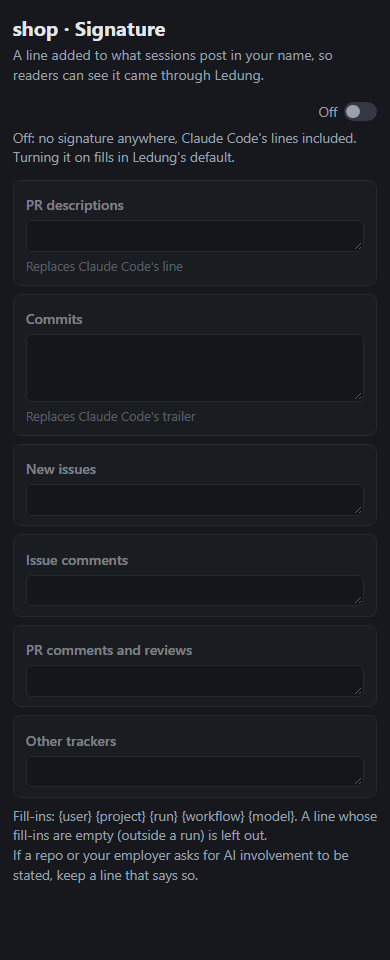
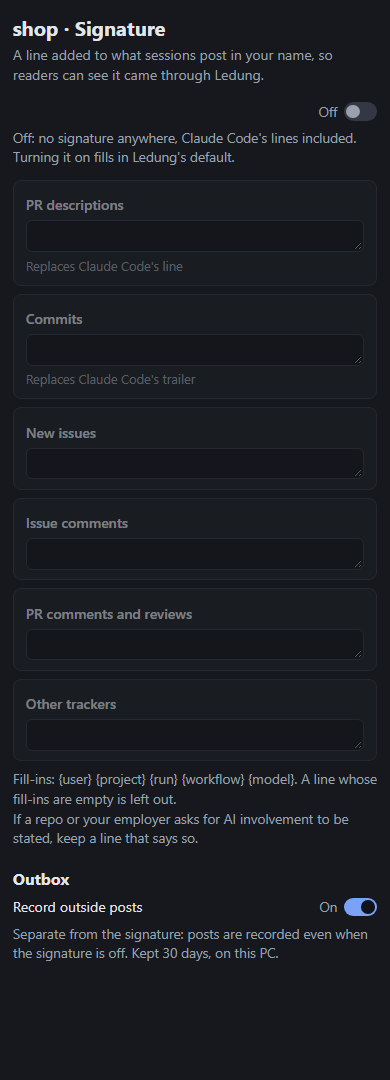
Design #513: the Outbox records every outside post, stand-in always on PATH, Ledung-Run dropped
The manager's Outbox changes, which Simon liked: its own per-project
setting, on by default, separate from the signature; the stand-in records
issue/PR create, comment, review and edit and writing gh api calls, and
passes them through when no text applies; tracker writes recorded
through PostToolUse; Ledung's board posts included; one line on what it
can't see; local, 30 days; the fallback spelled out. Simon on
Ledung-Run: "Drop it." Open choice 6 notes the manager's preference.
Parts and estimate updated (+30 min); mock-ups and screenshots redone.

Changelog: none

diff --git a/docs/steps/project-signature/outbox-mock.html b/docs/steps/project-signature/outbox-mock.html
@@ -29,24 +29,33 @@ a { color:var(--accent); text-decoration:none; }
   .card .l1 a { overflow:hidden; text-overflow:ellipsis; white-space:nowrap; min-width:0; }
   .card .l2 { color:var(--muted); font-size:.85rem; margin-top:.15rem; }
 }
+.cant { color:var(--muted); font-size:.85rem; margin:-.6rem 0 .9rem; }
+code { font:12px ui-monospace, Consolas, monospace; }
 </style></head><body><div class="wrap">
 <h1>Outbox</h1>
-<p class="sub">What sessions posted outside Ledung, newest first. Kept for 30 days.</p>
+<p class="sub">Everything sessions posted outside Ledung, signed or not, newest first. Kept 30 days, on this PC.</p>
+<p class="cant">Not recorded: <code>gh</code> from PowerShell or cmd, sessions in containers (for now), and posts made with curl or your own scripts.</p>
 <div class="filters"><span class="chip on">All projects</span><span class="chip">shop</span><span class="chip">docs-site</span><span class="chip on">All runs</span><span class="chip">run-42</span><span class="chip">Not in a run</span></div>
 <table>
-<thead><tr><th>When</th><th>What</th><th>Post</th><th>Project</th><th>Run</th><th>Session</th></tr></thead>
+<thead><tr><th>When</th><th>What</th><th>Post</th><th>Signed</th><th>Project</th><th>Run</th><th>Session</th></tr></thead>
 <tbody>
-<tr><td>16:41</td><td><span class="kind">PR review</span></td><td><a href="#">example/shop PR #88 · review comment</a></td><td>shop</td><td><a href="#">run-42</a></td><td><a href="#">Review</a></td></tr>
-<tr><td>16:12</td><td><span class="kind">PR</span></td><td><a href="#">example/shop PR #88 · Cart shows VAT per rate</a></td><td>shop</td><td><a href="#">run-42</a></td><td><a href="#">Build</a></td></tr>
-<tr><td>15:30</td><td><span class="kind">Linear comment</span></td><td><a href="#">SHOP-214 · comment</a></td><td>shop</td><td><a href="#">run-42</a></td><td><a href="#">Design</a></td></tr>
-<tr><td>14:05</td><td><span class="kind">Issue</span></td><td><a href="#">example/docs-site #17 · Broken link on the install page</a></td><td>docs-site</td><td class="muted">—</td><td><a href="#">Docs check</a></td></tr>
-<tr><td>Yesterday</td><td><span class="kind">Issue comment</span></td><td><a href="#">example/shop #80 · comment</a></td><td>shop</td><td class="muted">—</td><td><a href="#">Triage</a></td></tr>
+<tr><td>16:58</td><td><span class="kind">Board post</span></td><td><a href="#">Board · run-42 · "Review done, 2 findings"</a></td><td><span class="muted">—</span></td><td>shop</td><td><a href="#">run-42</a></td><td><a href="#">Review</a></td></tr>
+<tr><td>16:41</td><td><span class="kind">PR review</span></td><td><a href="#">example/shop PR #88 · review comment</a></td><td><span class="ok">signed</span></td><td>shop</td><td><a href="#">run-42</a></td><td><a href="#">Review</a></td></tr>
+<tr><td>16:20</td><td><span class="kind">PR edit</span></td><td><a href="#">example/shop PR #88 · description edited</a></td><td><span class="muted">—</span></td><td>shop</td><td><a href="#">run-42</a></td><td><a href="#">Build</a></td></tr>
+<tr><td>16:12</td><td><span class="kind">PR</span></td><td><a href="#">example/shop PR #88 · Cart shows VAT per rate</a></td><td><span class="ok">signed</span></td><td>shop</td><td><a href="#">run-42</a></td><td><a href="#">Build</a></td></tr>
+<tr><td>15:30</td><td><span class="kind">Linear comment</span></td><td><a href="#">SHOP-214 · comment</a></td><td><span class="muted">—</span></td><td>shop</td><td><a href="#">run-42</a></td><td><a href="#">Design</a></td></tr>
+<tr><td>14:05</td><td><span class="kind">Issue</span></td><td><a href="#">example/docs-site #17 · Broken link on the install page</a></td><td><span class="muted">—</span></td><td>docs-site</td><td><span class="muted">—</span></td><td><a href="#">Docs check</a></td></tr>
+<tr><td>13:40</td><td><span class="kind">API write</span></td><td><a href="#">POST repos/example/docs-site/labels</a></td><td><span class="muted">—</span></td><td>docs-site</td><td><span class="muted">—</span></td><td><a href="#">Docs check</a></td></tr>
+<tr><td>Yesterday</td><td><span class="kind">Issue comment</span></td><td><a href="#">example/shop #80 · comment</a></td><td><span class="muted">—</span></td><td>shop</td><td><span class="muted">—</span></td><td><a href="#">Triage</a></td></tr>
 </tbody></table>
 <div class="cards">
-<div class="card"><div class="l1"><span class="kind">PR review</span><a href="#">example/shop PR #88 · review comment</a></div><div class="l2">shop · <a href="#">run-42</a> · 16:41 · Review</div></div>
-<div class="card"><div class="l1"><span class="kind">PR</span><a href="#">example/shop PR #88 · Cart shows VAT per rate</a></div><div class="l2">shop · <a href="#">run-42</a> · 16:12 · Build</div></div>
+<div class="card"><div class="l1"><span class="kind">Board post</span><a href="#">Board · run-42 · "Review done, 2 findings"</a></div><div class="l2">shop · <a href="#">run-42</a> · 16:58 · Review</div></div>
+<div class="card"><div class="l1"><span class="kind">PR review</span><a href="#">example/shop PR #88 · review comment</a></div><div class="l2">shop · <a href="#">run-42</a> · 16:41 · Review · <span class="ok">signed</span></div></div>
+<div class="card"><div class="l1"><span class="kind">PR edit</span><a href="#">example/shop PR #88 · description edited</a></div><div class="l2">shop · <a href="#">run-42</a> · 16:20 · Build</div></div>
+<div class="card"><div class="l1"><span class="kind">PR</span><a href="#">example/shop PR #88 · Cart shows VAT per rate</a></div><div class="l2">shop · <a href="#">run-42</a> · 16:12 · Build · <span class="ok">signed</span></div></div>
 <div class="card"><div class="l1"><span class="kind">Linear comment</span><a href="#">SHOP-214 · comment</a></div><div class="l2">shop · <a href="#">run-42</a> · 15:30 · Design</div></div>
 <div class="card"><div class="l1"><span class="kind">Issue</span><a href="#">example/docs-site #17 · Broken link on the install page</a></div><div class="l2">docs-site · not in a run · 14:05 · Docs check</div></div>
+<div class="card"><div class="l1"><span class="kind">API write</span><a href="#">POST repos/example/docs-site/labels</a></div><div class="l2">docs-site · not in a run · 13:40 · Docs check</div></div>
 <div class="card"><div class="l1"><span class="kind">Issue comment</span><a href="#">example/shop #80 · comment</a></div><div class="l2">shop · not in a run · yesterday · Triage</div></div>
 </div>
 </div></body></html>

diff --git a/docs/steps/project-signature/settings-mock.html b/docs/steps/project-signature/settings-mock.html
@@ -33,8 +33,8 @@ tr:last-child td { border-bottom:0; }
 .switch { margin-left:auto; display:flex; align-items:center; gap:.4rem; color:var(--muted); font-size:.85rem; }
 .track { width:2.1rem; height:1.15rem; border-radius:999px; background:var(--accent); position:relative; display:inline-block; }
 .track::after { content:""; position:absolute; top:.15rem; left:1.1rem; width:.85rem; height:.85rem; border-radius:50%; background:var(--accent-text); }
-body.off .track { background:var(--border); }
-body.off .track::after { left:.15rem; background:var(--muted); }
+body.off .track:not(.keep) { background:var(--border); }
+body.off .track:not(.keep)::after { left:.15rem; background:var(--muted); }
 .offnote { display:none; }
 body.off .offnote { display:block; }
 body.off .state, body.off .restore, body.off .onlyon { display:none; }
@@ -55,13 +55,12 @@ body.off .place { opacity:.5; }
 <p class="hint offnote">Off: no signature anywhere, Claude Code's lines included. Turning it on fills in Ledung's default.</p>
 
 <div class="place"><label>PR descriptions</label><textarea rows="1">— via Ledung for {user}</textarea><span class="why">Replaces Claude Code's line</span></div>
-<div class="place"><label>Commits</label><textarea rows="3">Co-Authored-By: {model} &lt;noreply@anthropic.com&gt;
-Ledung-Run: {run}</textarea><span class="why">Replaces Claude Code's trailer</span></div>
+<div class="place"><label>Commits</label><textarea rows="1">Co-Authored-By: {model} &lt;noreply@anthropic.com&gt;</textarea><span class="why">Replaces Claude Code's trailer</span></div>
 <div class="place"><label>New issues</label><textarea rows="1">— via Ledung for {user}</textarea></div>
 <div class="place"><label>Issue comments</label><textarea rows="1" placeholder="Empty: nothing added"></textarea></div>
 <div class="place"><label>PR comments and reviews</label><textarea rows="1" placeholder="Empty: nothing added"></textarea></div>
 <div class="place"><label>Other trackers</label><textarea rows="1">— via Ledung</textarea></div>
-<p class="hint">Fill-ins: {user} {project} {run} {workflow} {model}. A line whose fill-ins are empty (outside a run) is left out.<br>If a repo or your employer asks for AI involvement to be stated, keep a line that says so.</p>
+<p class="hint">Fill-ins: {user} {project} {run} {workflow} {model}. A line whose fill-ins are empty is left out.<br>If a repo or your employer asks for AI involvement to be stated, keep a line that says so.</p>
 
 <div class="onlyon"><h2>Preview, in run-42</h2>
 <div class="preview">PR description:
@@ -69,8 +68,7 @@ Ledung-Run: {run}</textarea><span class="why">Replaces Claude Code's trailer</sp
 — via Ledung for Simon</b>
 
 Commit:
-<b>Co-Authored-By: Claude Opus 5.5 &lt;noreply@anthropic.com&gt;
-Ledung-Run: run-42</b></div>
+<b>Co-Authored-By: Claude Opus 5.5 &lt;noreply@anthropic.com&gt;</b></div>
 
 <h2>Tracker tools</h2>
 <table><thead><tr><th>Tool</th><th>Field signed</th></tr></thead><tbody>
@@ -79,6 +77,9 @@ Ledung-Run: run-42</b></div>
 </tbody></table>
 <p class="hint">Asked once per tool. With Other trackers empty, nothing is asked or signed.</p>
 </div>
+<h2>Outbox</h2>
+<div class="top keep"><span>Record outside posts</span><span class="switch"><span>On</span><span class="track keep"></span></span></div>
+<p class="hint">Separate from the signature: posts are recorded even when the signature is off. Kept 30 days, on this PC.</p>
 </div>
 <script>
 // ?off shows the section switched off: every box emptied, as Simon asked.

diff --git a/docs/steps/project-signature.md b/docs/steps/project-signature.md
@@ -1,8 +1,8 @@
 # A project signature — proposal
 
-Nov 26, 2026, revised Nov 27 (Ledung's line replaces Claude Code's; then Simon's changes: a text per place, off is off, no PR summary; then one preset, Ledung's, editable, with Restore default and a small Off) · Proposal for issue #513 (run-179). Not approved yet; nothing is built.
+Nov 26, 2026, revised Nov 27 (Ledung's line replaces Claude Code's; then Simon's changes: a text per place, off is off, no PR summary; then one preset, Ledung's, editable, with Restore default and a small Off; an Outbox that records everything; no `Ledung-Run`) · Proposal for issue #513 (run-179). Not approved yet; nothing is built.
 
-**Done when:** the "Done looks like" points of #513 hold, minus the living PR summary: a signature per project, Ledung's default or edited by hand, with a text per place and an Off; `gh` issue create, issue and PR comments and reviews get it from every body source on Windows and Mac, and PR descriptions and commits through Claude Code's own settings; every other `gh` call is unchanged; another server's write tool gets it after one question per tool and project; an Outbox lists what went out; and never a second signature, one on a read-only call, a private detail in one, or a broken `gh`.
+**Done when:** the "Done looks like" points of #513 hold, minus the living PR summary: a signature per project, Ledung's default or edited by hand, with a text per place and an Off; `gh` issue create, issue and PR comments and reviews get it from every body source on Windows and Mac, and PR descriptions and commits through Claude Code's own settings; every other `gh` call is unchanged; another server's write tool gets it after one question per tool and project; an Outbox records every outside post, signed or not, for 30 days; and never a second signature, one on a read-only call, a private detail in one, or a broken `gh`.
 
 ## Why
 
@@ -19,6 +19,8 @@ In conversation with the manager, relayed with his words; they go into `docs/dec
 - **Ledung's texts replace Claude Code's lines completely, and nothing is hardcoded:** "we're replacing it with a per project signature that the user can change." Both Claude Code lines come from the project's texts. "The co-authored by claude should work the same way, unless that steps on any of Anthropic's licence thingies. If the user wants to have it there, they can have it in the signature; otherwise they can change it." (Earlier, question #2434: "We should override Claude Code's signature.") What Anthropic's terms say is under "Anthropic's terms" below.
 - **Off is off:** "If switched off, it should be off." Off means no line anywhere, Claude's included.
 - **Defaults:** "existing projects should remain as is, new projects use a Ledung standard." This replaces the earlier defaults by repo visibility. How an existing project looks with only one preset is open choice 6.
+- **The Outbox records every outside post:** "I like the outbox changes we mentioned", about the manager's proposal: its own per-project setting, on by default, separate from the signature; the stand-in always there; tracker writes and board posts included; one line on what it can't see; local, 30 days.
+- **No `Ledung-Run` trailer:** "Drop it." (15:42, on the manager's recommendation). It only linked a commit to a run inside this Ledung, which outsiders can't open, and would sit in every Ledung user's run commits. Anyone who wants it can type `Ledung-Run: {run}` into their commit text.
 - **No living PR summary:** "I don't think it's up to Ledung, but each project's workflow. If I want to comment every time we start a new phase of an issue, then I can have that in the workflow." A PR made in a run gets the PR-description text like any other PR.
 
 ## Anthropic's terms (checked 2026-11-27)
@@ -54,25 +56,25 @@ In the project's settings, a **Signature** section: a text per place, filled fro
 | Place | Ledung's default |
 |---|---|
 | PR descriptions | `— via Ledung for {user}` |
-| Commits | `Co-Authored-By: {model} <noreply@anthropic.com>` and, on the next line, `Ledung-Run: {run}` |
+| Commits | `Co-Authored-By: {model} <noreply@anthropic.com>` |
 | New issues | `— via Ledung for {user}` |
 | Issue comments | — |
 | PR comments and reviews | — |
 | Other trackers | — |
 
-It puts Ledung's line on PRs and new issues, keeps the co-author trailer on commits and adds the run. Comments, reviews and trackers stay quiet: they are mostly conversation and work tools.
+It puts Ledung's line on PRs and new issues and keeps the co-author trailer on commits. Comments, reviews and trackers stay quiet: they are mostly conversation and work tools.
 
 **Three states, one preset:**
 
 - **Default:** the texts are exactly Ledung's default. The section says "Ledung's default".
 - **Edited:** any change to any text makes the section say "Edited" (Simon's "custom"). Nothing else changes; the texts are simply what is saved. **Restore default** puts Ledung's default back in every box, after a "Replace your texts with Ledung's default?" confirmation, and is only shown while the texts are edited.
-- **Off:** a small switch at the top of the section. Switching it off empties every box and greys them out, and saves that: **no line anywhere**, no Ledung line, no Claude line, no marker, no stand-in on `PATH`, no tracker question. The edited texts are not kept (Simon: "erases the text in the box"), so the switch says "Turning it off clears your texts." **Switching it on again** fills the boxes with Ledung's default (open choice 7).
+- **Off:** a small switch at the top of the section. Switching it off empties every box and greys them out, and saves that: **no line anywhere**, no Ledung line, no Claude line, no marker, no tracker question. The Outbox still records: it is its own setting. The edited texts are not kept (Simon: "erases the text in the box"), so the switch says "Turning it off clears your texts." **Switching it on again** fills the boxes with Ledung's default (open choice 7).
 
 There is no Claude Code preset and no None preset: Off is the None, and Claude's own lines are just text a person can type into the boxes, or keep (open choice 6 for existing projects).
 
-**Fill-ins:** `{user}` (Ledung's user name), `{project}` (the project's name), `{run}` (`run-179`), `{workflow}` (the flow's name) and `{model}` (the session's model as Claude Code names it, `Claude Opus 5.5`). Outside a run, the run fill-ins are empty, and a line left empty by them is dropped (so `Ledung-Run:` never appears alone). Only these five exist: session titles, folder paths, account names and anything else private can't be put in a signature, because there is no fill-in for them. Every text is checked against the project's sensitive patterns on save, as board posts are. (`{steps}` went with the PR summary.)
+**Fill-ins:** `{user}` (Ledung's user name), `{project}` (the project's name), `{run}` (`run-179`), `{workflow}` (the flow's name) and `{model}` (the session's model as Claude Code names it, `Claude Opus 5.5`). Outside a run, the run fill-ins are empty, and a line left empty by them is dropped. Ledung's default no longer uses `{run}` or `{workflow}`; they stay as fill-ins because they cost nothing and a person may want them in their own text, though a reader outside this Ledung can't open a run. Only these five exist: session titles, folder paths, account names and anything else private can't be put in a signature, because there is no fill-in for them. Every text is checked against the project's sensitive patterns on save, as board posts are. (`{steps}` went with the PR summary.)
 
-**Existing and new projects:** a project made in Ledung after this ships (New project, or the Ledung Helper) is saved with Ledung's default. A project with no signature setting (every project that exists today, and one added to the config by hand) keeps exactly what it gets today: Claude Code's own PR line and commit trailer, and nothing else. How the section shows that is open choice 6; the recommendation is that its boxes hold Claude Code's two lines as edited text, with Restore default one click away.
+**Existing and new projects:** a project made in Ledung after this ships (New project, or the Ledung Helper) is saved with Ledung's default. A project with no signature setting (every project that exists today, and one added to the config by hand) keeps exactly what it gets today: Claude Code's own PR line and commit trailer, and nothing else. How the section shows that is open choice 6. Either way it is recorded in the Outbox like any project.
 
 **Where the settings live: the project's settings, not the workflow.** Whether and how a project signs is about the repo and who reads it, and it applies to work outside a run too. Saved like the other project settings, in the project's part of the config, so a work project's text can stay in `ledung.config.local.json`. A change reaches PR descriptions and commits for sessions started or resumed afterwards (Claude Code takes those at the start; part 1 checks whether a running session can be updated), and everything else on the next call.
 
@@ -95,7 +97,7 @@ Not checked yet, so done first in part 1: that the SDK's `settings` option wins 
 
 ### The marker, where it is still needed
 
-The stand-in and the tracker hook add the text to a body that someone else (Claude) wrote, so they need a way to see they already did. Every body they sign ends with the text, then a hidden marker where the site renders Markdown: `<!-- ledung run-179 -->`, or `<!-- ledung -->` outside a run. Before signing, the body is searched for `<!-- ledung`; if it is there, nothing is added. That covers a repeated post, a body copied from an earlier one and a session that signed by hand. Edits (`gh issue edit`, `gh pr edit`, `gh api … PATCH`) are never signed. PR descriptions and commits carry no marker: Claude Code adds their line once, and nothing else adds one.
+The stand-in and the tracker hook add the text to a body that someone else (Claude) wrote, so they need a way to see they already did. Every body they sign ends with the text, then a hidden marker where the site renders Markdown: `<!-- ledung run-179 -->`, or `<!-- ledung -->` outside a run. A call that is only recorded gets no marker. Before signing, the body is searched for `<!-- ledung`; if it is there, nothing is added. That covers a repeated post, a body copied from an earlier one and a session that signed by hand. Edits (`gh issue edit`, `gh pr edit`, `gh api … PATCH`) are never signed. PR descriptions and commits carry no marker: Claude Code adds their line once, and nothing else adds one.
 
 **When a tracker strips the marker (Linear, Jira and others),** Ledung never relies on it coming back. Two other checks keep "never a second signature":
 
@@ -106,33 +108,50 @@ For trackers whose Markdown keeps HTML comments, the marker is added as on GitHu
 
 ### GitHub: the stand-in `gh`
 
-Ledung writes a small stand-in into its data folder (`<data>/gh-stand-in/`, via `src/platform/paths.ts`): a `gh` shell script, and if chosen a `gh.ps1`, both calling one `gh.mjs` run by Ledung's own Node. When one of the stand-in's places (new issues, issue comments, PR comments and reviews) has a text, Ledung puts that folder first on the session's `PATH` in `sessionEnv`; otherwise it isn't there at all, so Claude Code standard and None projects run the real `gh` directly. A per-session file next to it holds the real `gh`'s full path (found when the session starts), the three places' texts already filled in, and the run. No `LEDUNG_*` variable is used, so the rule "sessions don't inherit LEDUNG_* settings" stays as it is.
+Ledung writes a small stand-in into its data folder (`<data>/gh-stand-in/`, via `src/platform/paths.ts`): a `gh` shell script, and if chosen a `gh.ps1`, both calling one `gh.mjs` run by Ledung's own Node. Because the Outbox records every outside post, **the folder is first on `PATH` in every local session** (`sessionEnv`), whatever the signature says. It is left out only when a project has both recording switched off and no text for the stand-in's places. A per-session file next to it holds the real `gh`'s full path (found when the session starts), the three places' texts already filled in, whether to record, and the run. No `LEDUNG_*` variable is used, so the rule "sessions don't inherit LEDUNG_* settings" stays as it is.
 
 `gh.mjs` reads its arguments, not a command line:
 
-- It signs only `issue create`, `issue comment`, `pr comment` and `pr review` (with `--comment`, `--approve` or `--request-changes` and a body), and only when that place has a text.
-- It takes the body from `--body`/`-b`, `--body-file`/`-F` (a file, or `-` for stdin), and writes the signed body to a temporary file passed as `--body-file`. Stdin is read only when the call itself reads it.
-- A call with no body of its own (`--fill`, `--web`, `--editor`, interactive) is passed through unchanged.
+- **It records** `issue create`, `issue comment`, `issue edit`, `pr create`, `pr comment`, `pr review`, `pr edit`, and `gh api` calls that write (`-X`/`--method` `POST`, `PATCH`, `PUT` or `DELETE`, or a `-f`/`-F`/`--input` field without `-X`, which makes `gh api` post). Everything else, `gh api` reads included, is not recorded.
+- **It signs** only `issue create`, `issue comment`, `pr comment` and `pr review` (with `--comment`, `--approve` or `--request-changes` and a body), and only when that place has a text. Edits, `pr create` and `gh api` are never signed. A call whose place has no text goes to the real `gh` unchanged and is only recorded.
+- It takes a body to sign from `--body`/`-b`, `--body-file`/`-F` (a file, or `-` for stdin), and writes the signed body to a temporary file passed as `--body-file`. Stdin is read only when the call itself reads it and the stand-in signs it; a call that is only recorded keeps its stdin untouched.
+- A call with no body of its own (`--fill`, `--web`, `--editor`, interactive) is passed through unchanged, and recorded if it is one of the kinds above.
 - Every other call `exec`s the real `gh` with the same arguments, stdin, stdout and exit code.
-- **Any failure in the stand-in** (missing or unreadable session file, a bug, an argument it can't parse) runs the real `gh` with the original arguments, untouched. Only the real `gh`'s own failures are reported as failures.
-- After a signed call, and after `pr create` (not signed, but worth listing), it appends one line to the session's journal: kind, repo, the URL `gh` printed, the time. That journal feeds the Outbox. A fallback writes its reason there too, never to stderr.
+- After a recorded call it appends one line to the session's journal: kind, repo, the URL `gh` printed (for `gh api`, the method and path), whether it was signed (for `pr create`, whether the body holds the project's PR text, which Claude Code added), the time. No body is kept. That journal feeds the Outbox.
 
-Container sessions run `gh` inside the container, which Ledung doesn't write to today. See open choice 2. Their PRs and commits are signed anyway, through Claude Code's settings.
+**The fallback, stressed, because the stand-in is now in every session.** A broken stand-in must never become a broken `gh`:
 
-### Other trackers: one question per tool, then a hook
+- **Any failure in the stand-in** (missing or unreadable session file, a bug, an argument it can't parse, the journal not writable) runs the real `gh` with the original arguments and stdin, untouched. Only the real `gh`'s own failures are reported as failures.
+- It is silent: nothing of its own on stdout or stderr. The reason goes to the journal, and the Outbox shows "N calls passed through unrecorded" for that session, so a fault is visible without breaking anything.
+- Recording happens after the real `gh` has finished, from its output. A failing journal write never changes the output or the exit code.
+- The shell script only starts Node with `gh.mjs`. If Node can't start, the script `exec`s the real `gh` path from the session file, and failing that, the next `gh` on `PATH` after its own folder.
+- Part 2's tests run the `gh` calls sessions make every day (`gh pr view`, `gh pr checks`, `gh run watch`, `gh auth status`, `gh api` reads, a prompt that waits for input) through the stand-in and compare output and exit codes with the real `gh`, and one test removes the session file and one breaks `gh.mjs` on purpose.
 
-Only when the project's other-trackers text isn't empty. Ledung's existing `PreToolUse` hook gets one more step for `mcp__*` tools of servers that aren't Ledung's own:
+Container sessions run `gh` inside the container, which Ledung doesn't write to today. See open choice 2. Their PRs and commits get the project's lines anyway, through Claude Code's settings; their `gh` posts are not recorded.
 
-- **Which tools count as writes:** those not marked `readOnly` in the server's own tool list (`mcpServerStatus()`, which gives name, description and annotations, but no input schema), whose name or description says create, add, post, comment, reply or update, and whose call has at least one string field.
-- **The first call** of such a tool in a project goes through **unsigned**. The project's settings get a waiting item, with a small badge on the project: "Linear: create_comment. Which field gets the signature?", offering the call's string fields (`body`, `title`, …) and "None". The answer is kept per project and tool. Every later call has the text added to that field as the call passes (the check-1 mechanism), and the server's own sign-in is untouched. See open choice 1 for asking during the call instead.
-- **Fitting into the hook chain:** the signed input is worked out first. Every `allow` the chain returns afterwards (grants, rules, away mode) carries it as `updatedInput`, and an "ask" carries it too, so the person approves the signed text. A refusal stays a refusal. A signature is never added to a call that Ledung or the person would refuse.
-- A `PostToolUse` step writes the same journal line, with any URL found in the result.
+### Other trackers: recorded always, signed after one question
+
+Ledung's existing hook gets one more step for `mcp__*` tools of servers that aren't Ledung's own.
+
+- **Which tools count as writes:** those not marked `readOnly` in the server's own tool list (`mcpServerStatus()`, which gives name, description and annotations, but no input schema), whose name or description says create, add, post, comment, reply, update, edit or delete. The same list decides both recording and signing.
+- **Recording, whatever the signature says:** a `PostToolUse` step writes a journal line for every such call while the project records: server, tool, the target's id, any URL found in the result, whether it was signed, the time. No body is kept.
+- **Signing, only when the other-trackers text isn't empty**, and only for a write tool with at least one string field. The first call of such a tool in a project goes through **unsigned**. The project's settings get a waiting item, with a small badge on the project: "Linear: create_comment. Which field gets the signature?", offering the call's string fields (`body`, `title`, …) and "None". The answer is kept per project and tool. Every later call has the text added to that field as the call passes (`PreToolUse`, the check-1 mechanism), and the server's own sign-in is untouched. See open choice 1 for asking during the call instead.
+- **Fitting into the hook chain:** the signed input is worked out first. Every `allow` the chain returns afterwards (grants, rules, away mode) carries it as `updatedInput`, and an "ask" carries it too, so the person approves the signed text. A refusal stays a refusal. A signature is never added to a call that Ledung or the person would refuse, and a refused call isn't recorded, because nothing went out.
+- A failure in either step lets the call go through as it was, unsigned and unrecorded, with the reason in the journal.
 
 ### The Outbox
 
-A list of what sessions posted outside, as the stand-in and the hook saw it, newest first: when, the kind (issue, comment, PR, review, a tracker's comment), a link to the post, the project, the run (a link to it), and the session (a link to it; session titles are shown only here, inside Ledung, never in a signature). It can be filtered by project and run, or "Not in a run". It is built from the journals and the hook's record, kept in the database (a new `MIGRATIONS` entry) for the evidence period, then trimmed. At 1280 px it is a table. At 390 px each entry is a card of two lines: the kind and the link, cut off with "…", then project · run · time · session. Where it lives is open choice 5. The board's held posts are also called an outbox in the code (PR #131), but the page never shows that word, so the name is free.
+**A record of every outside post the sessions make, signed or not.** It is its own per-project setting, **Record outside posts**, on by default and separate from the signature: a project whose signature is Off, or an existing project still on Claude Code's own lines, is recorded all the same. Switching it off stops recording for that project from the next call; what was recorded stays until it ages out.
 
-It lists only what goes through the stand-in or the hook, so a project that is Off, or an existing project still on Claude Code's own lines, has neither and shows nothing there. Commits are not listed: they go out with a push, and the branch already shows them.
+**What it records:**
+
+- GitHub, through the stand-in: new issues, issue comments and edits, PRs, PR comments, reviews and edits, and `gh api` calls that write.
+- Other trackers' write tools, through the hook.
+- **Ledung's own board posts** (what sessions post through Ledung's board tools, once sent), from Ledung's own record, so the Outbox is one list of everything that left.
+
+**What is shown:** newest first: when, the kind (issue, comment, PR, review, edit, API write, a tracker's comment, board post), a link to the post (for an API write, the method and path), signed or not, the project, the run (a link to it), and the session (a link to it; session titles are shown only here, inside Ledung, never in a signature). It can be filtered by project and run, or "Not in a run". Under the title, one line says what it can't see: "Not recorded: `gh` from PowerShell or cmd, sessions in containers (for now), and posts made with curl or your own scripts." Commits are not listed: they go out with a push, and the branch already shows them.
+
+**Where it is kept:** locally, in Ledung's database (a new `MIGRATIONS` entry), filled from the journals, the hook's record and the board. It is **kept 30 days**, then trimmed, and sent nowhere. At 1280 px it is a table. At 390 px each entry is a card of two lines: the kind and the link, cut off with "…", then project · run · time · session · signed. Where it lives is open choice 5. The board's held posts are also called an outbox in the code (PR #131), but the page never shows that word, so the name is free.
 
 ## What is shown
 
@@ -148,9 +167,11 @@ The same section switched Off (`settings-mock.html?off`): every box empty and gr
 
 ![Signature switched off at 390 px](project-signature/settings-off-390.png)
 
+Below the signature, the Outbox's own switch, **Record outside posts**, on by default.
+
 **A waiting badge** on the project when a tracker tool's field is still unchosen.
 
-**Outbox:**
+**Outbox:** the line on what it can't see, a Signed column, edits, an API write and a board post among the entries.
 
 ![Outbox at 1280 px](project-signature/outbox-1280.png)
 
@@ -159,24 +180,26 @@ The same section switched Off (`settings-mock.html?off`): every box empty and gr
 ## Security
 
 - No new opening in the page or API. The stand-in talks to nothing but the real `gh` and a file in the data folder. It never calls Ledung.
-- The per-session file holds no token, only the real `gh`'s path, the texts and the run. A session can read or change it (same user). That only changes its own courtesy line, and the session could post through the real `gh` anyway.
+- The per-session file holds no token, only the real `gh`'s path, the texts, the recording switch and the run. A session can read or change it (same user). That only changes its own courtesy line, and the session could post through the real `gh` anyway.
 - The real `gh` is found once by Ledung (full path), so the stand-in can't call itself in a loop. It also refuses to `exec` a path inside its own folder.
 - A signature can only contain the five fill-ins and the person's own text, which is checked against the sensitive patterns. No private details can leak through it.
+- The Outbox keeps no bodies, only kind, link, target, time and whether it was signed; it is local, only shown behind Ledung's sign-in, and trimmed after 30 days.
+- The stand-in is now in every local session, so its fallback (above) is tested as a part of its own: a fault means an unrecorded call, never a failed one.
 - The hook change never turns an ask into an allow or skips a refusal (check 1). The person sees the signed text.
 - Claude Code's lines are changed only for Ledung's own sessions, through the SDK's per-session settings. The person's Claude Code settings files are never written.
 
 ## Parts
 
-Each part is its own PR, reviewed and approved on its own. Part 1 comes first: it adds the settings, Ledung's default and the journal, and on its own already gives PRs and commits the project's lines. Parts 2 and 3 depend only on part 1 and can go in either order. Part 4 needs part 2 or 3 for something to list.
+Each part is its own PR, reviewed and approved on its own. Part 1 comes first: it adds the settings (the recording switch included), Ledung's default and the journal, and on its own already gives PRs and commits the project's lines. Parts 2 and 3 depend only on part 1 and can go in either order. Part 4 needs part 2 or 3 for something to list.
 
 | # | Part | Done when | Session time | Plan use |
 |---|---|---|---|---|
-| 1 | **Settings, Ledung's default and Claude Code's lines:** the Signature section (a text per place, Default / Edited, Restore default, the Off switch that empties the boxes, fill-ins with `{model}`, preview, sensitive check), existing projects left on Claude Code's own lines (open choice 6) and Ledung's default for new ones, `attribution` per session, the journal file. | First the two checks under "PR descriptions and commits". Then, in a throwaway Ledung with Haiku: an existing project's session makes a PR and a commit exactly as today; a new project's (Ledung's default) PR ends with `— via Ledung for …` and no Claude line, and its commit carries `Co-Authored-By: Claude Haiku …` and, in a run, `Ledung-Run`; switched Off, neither has any line and the boxes are empty; an edited text shows up as typed; Restore default brings back the default texts. The person's own Claude Code settings file is unchanged. Settings work at 390 px. | 60–90 min | medium: one build session plus review |
-| 2 | **The stand-in `gh`** (local sessions): on `PATH` only when one of its places has a text, signing the four commands from all three body sources, the marker and its check, a silent fallback, journal lines (`pr create` included). | Tests cover each command and body source, pass-through (same output and exit code), `pr create` left unsigned, and the fallback. A throwaway Ledung on Windows signs a real issue and comment in a throwaway repo from Git Bash; a repeated post isn't signed twice. One run on a Mac. | ≈ 90 min | medium |
-| 3 | **Other trackers:** picking out write tools, the one-time field question, the hook step and how it fits the chain, the repeat check without a marker, the journal line. | The check-1 tracker server, under a throwaway Ledung, asks once and signs every later call. A read-only tool is never touched. A refused call stays refused. A repeated call isn't signed twice. With an empty trackers text, nothing is asked. | 60–90 min | medium |
-| 4 | **Outbox:** database entry, list, filters, the page at both widths. | It lists parts 2–3's posts with links, per project and run, and works at 1280 and 390 px (dark-mode screenshots beside this mock-up). | ≈ 60 min | medium (page and screenshots) |
+| 1 | **Settings, Ledung's default and Claude Code's lines:** the Signature section (a text per place, Default / Edited, Restore default, the Off switch that empties the boxes, fill-ins with `{model}`, preview, sensitive check), existing projects left on Claude Code's own lines (open choice 6) and Ledung's default for new ones, `attribution` per session, the journal file. | First the two checks under "PR descriptions and commits". Then, in a throwaway Ledung with Haiku: an existing project's session makes a PR and a commit exactly as today; a new project's (Ledung's default) PR ends with `— via Ledung for …` and no Claude line, and its commit carries `Co-Authored-By: Claude Haiku …` and nothing else; switched Off, neither has any line and the boxes are empty; an edited text shows up as typed; Restore default brings back the default texts. The person's own Claude Code settings file is unchanged. Settings work at 390 px. | 60–90 min | medium: one build session plus review |
+| 2 | **The stand-in `gh`** (local sessions): on `PATH` in every local session, recording the listed commands and writing `gh api` calls, signing the four commands from all three body sources when a text applies, the marker and its check, the silent fallback, journal lines. | Tests cover each command and body source, pass-through (same output and exit code) for the everyday `gh` calls, a recorded-only call passing unchanged, `pr create` and edits left unsigned, `gh api` reads not recorded, and the fallback (missing session file, broken `gh.mjs`, Node not starting, journal not writable). A throwaway Ledung on Windows signs a real issue and comment in a throwaway repo from Git Bash; a repeated post isn't signed twice. One run on a Mac. | ≈ 105 min | medium |
+| 3 | **Other trackers:** picking out write tools, recording every write (`PostToolUse`), the one-time field question, the signing step and how it fits the chain, the repeat check without a marker. | The check-1 tracker server, under a throwaway Ledung, asks once and signs every later call. A read-only tool is never touched. A refused call stays refused. A repeated call isn't signed twice. With an empty trackers text, nothing is asked or signed, but writes are still recorded. | 60–90 min | medium |
+| 4 | **Outbox:** database entry, Ledung's board posts added, the 30-day trim, list, filters, the Signed column, the line on what it can't see, the page at both widths. | It lists parts 2–3's posts and the board's, signed and unsigned, with links, per project and run; a project with the signature Off is still listed; with recording off, nothing new appears; an entry older than 30 days is gone; it works at 1280 and 390 px (dark-mode screenshots beside this mock-up). | ≈ 75 min | medium (page and screenshots) |
 
-About 4½ to 5½ hours of session time in all, in four PRs (the earlier five parts were about 5 hours; the PR summary's hour is gone, the settings section adds some to part 1). Each part also waits for code review, CI and Simon's sign-off. No measured figures from Ledung exist for this kind of work yet, so plan use is only relative.
+About 5 to 6 hours of session time in all, in four PRs: about 30 minutes more than before, for recording every post (stand-in and fallback tests in part 2, board posts and the trim in part 4). Each part also waits for code review, CI and Simon's sign-off. No measured figures from Ledung exist for this kind of work yet, so plan use is only relative.
 
 ## Open choices
 
@@ -190,15 +213,15 @@ About 4½ to 5½ hours of session time in all, in four PRs (the earlier five par
    - **(a) No `gh.ps1` for now (recommended):** PowerShell finds the real `gh.exe`, so issues and comments from PowerShell go unsigned but never break. Git Bash is Claude Code's shell on Windows.
    - (b) Write `gh.ps1` only when Ledung finds the execution policy allows scripts.
 4. **What Ledung's default says.**
-   - **(a) As in the table (recommended, the manager's suggestion):** PR descriptions and new issues `— via Ledung for {user}`; commits `Co-Authored-By: {model} <noreply@anthropic.com>` plus `Ledung-Run: {run}` in a run; comments, reviews and trackers empty. The co-author trailer stays because it says honestly, in a form GitHub reads, that Claude wrote the code; the PR line changes because "Generated with Claude Code" is the courtesy line Ledung's replaces.
-   - (b) The same, but commits `Via: Ledung for {user}` plus `Ledung-Run: {run}`, without the co-author trailer: one Ledung line everywhere, but the commit no longer says Claude co-wrote it.
+   - **(a) As in the table (recommended, the manager's suggestion):** PR descriptions and new issues `— via Ledung for {user}`; commits `Co-Authored-By: {model} <noreply@anthropic.com>`; comments, reviews and trackers empty. The co-author trailer stays because it says honestly, in a form GitHub reads, that Claude wrote the code; the PR line changes because "Generated with Claude Code" is the courtesy line Ledung's replaces.
+   - (b) The same, but commits `Via: Ledung for {user}`, without the co-author trailer: one Ledung line everywhere, but the commit no longer says Claude co-wrote it.
    - (c) The same as (a), plus issue comments and PR comments and reviews `— via Ledung`: more visible, more noise in conversations.
 5. **Where the Outbox lives.**
    - **(a) A sidebar entry next to runs, as in the mock-up (recommended):** one place across projects, with filters.
    - (b) A tab in each project's settings.
 6. **How an existing project shows in the Signature section.** It has no setting and must keep exactly today's lines.
    - **(a) As edited text holding Claude Code's two lines (recommended):** the PR box shows `🤖 Generated with [Claude Code](https://claude.com/claude-code)`, the commit box `Co-Authored-By: {model} <noreply@anthropic.com>`, the rest empty, marked "Edited" with Restore default beside it. While those boxes are untouched, Ledung saves nothing and sets nothing, so Claude Code's own lines go out exactly as today (a subagent's model included). Once anything is changed, it is saved like any edited text. One preset, one way to read the section: the boxes show what goes out.
-   - (b) A separate note instead of boxes: "This project uses Claude Code's own lines, as before. Use Ledung's signature?" with a button. Plainer, but a fourth state beside Default, Edited and Off, which Simon's one-preset choice was meant to avoid.
+   - (b) A separate note instead of boxes: "This project uses Claude Code's own lines, as before. Use Ledung's signature?" with a button. Plainer, but a fourth state beside Default, Edited and Off, which Simon's one-preset choice was meant to avoid. The manager suggested this one: an existing project gets nothing from Ledung, and the section says so and offers Ledung's default. I still recommend (a), because the boxes then always show what goes out, but both keep the project exactly as today.
 7. **Switching Off back on.** Off has already erased the texts.
    - **(a) The boxes fill with Ledung's default (recommended):** on means signed, and "on with every box empty" would be a second Off. Editing from there is the same as always.
    - (b) The boxes stay empty until the person types or presses Restore default: nothing appears that the person didn't put there, but until then on behaves like Off.
